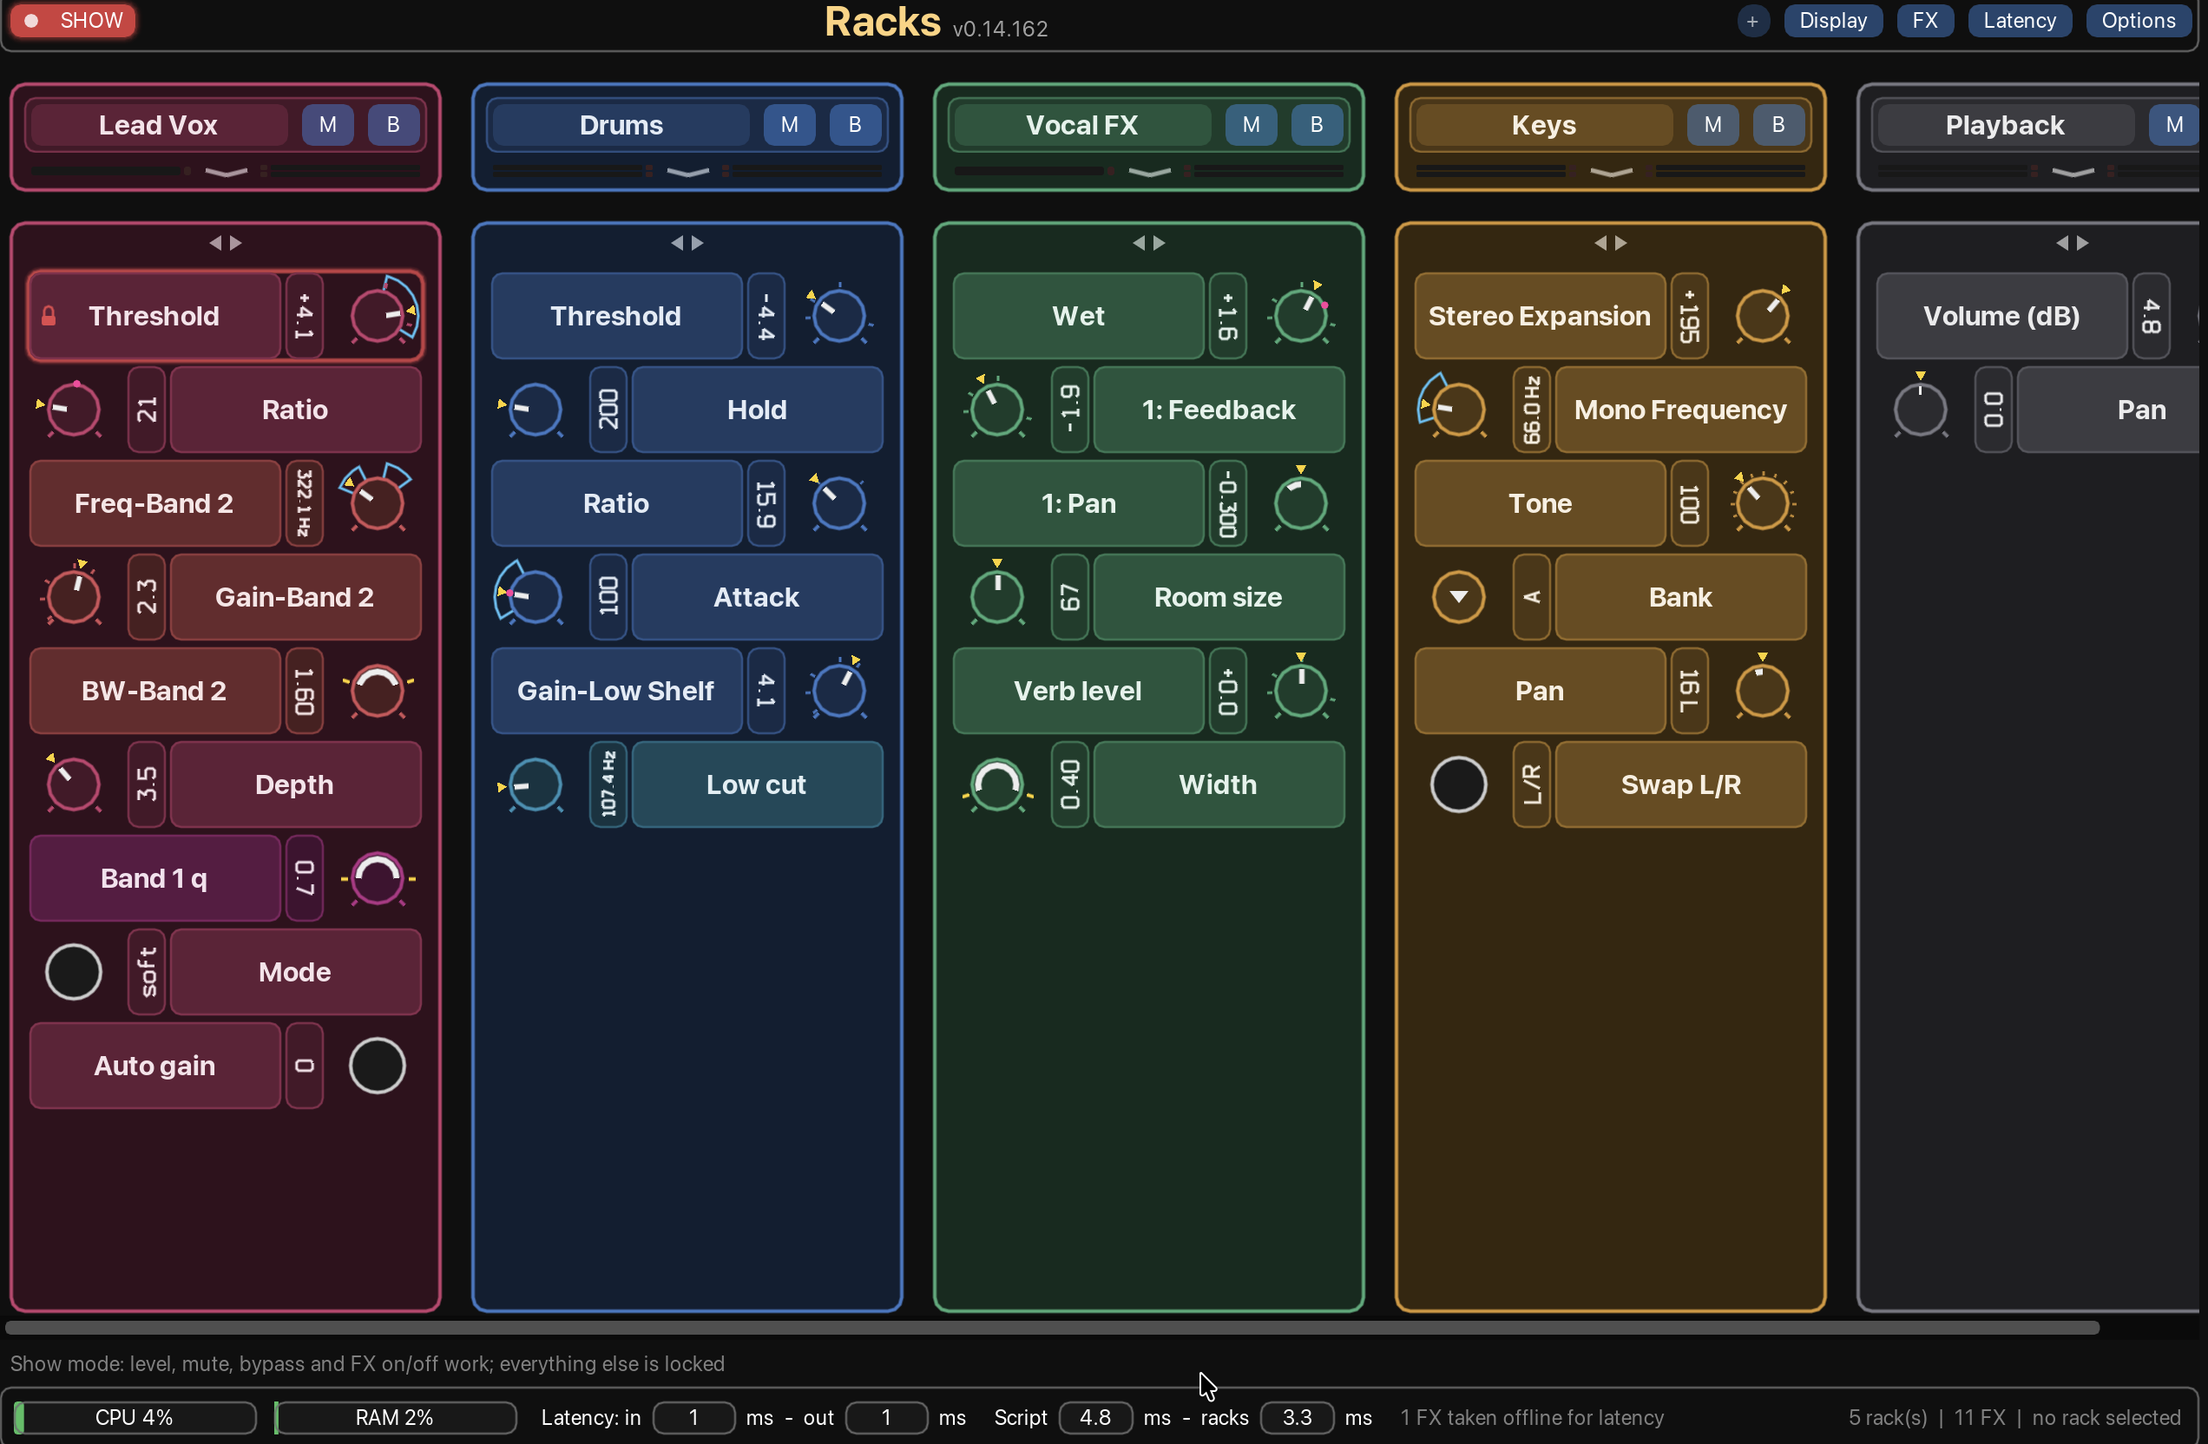
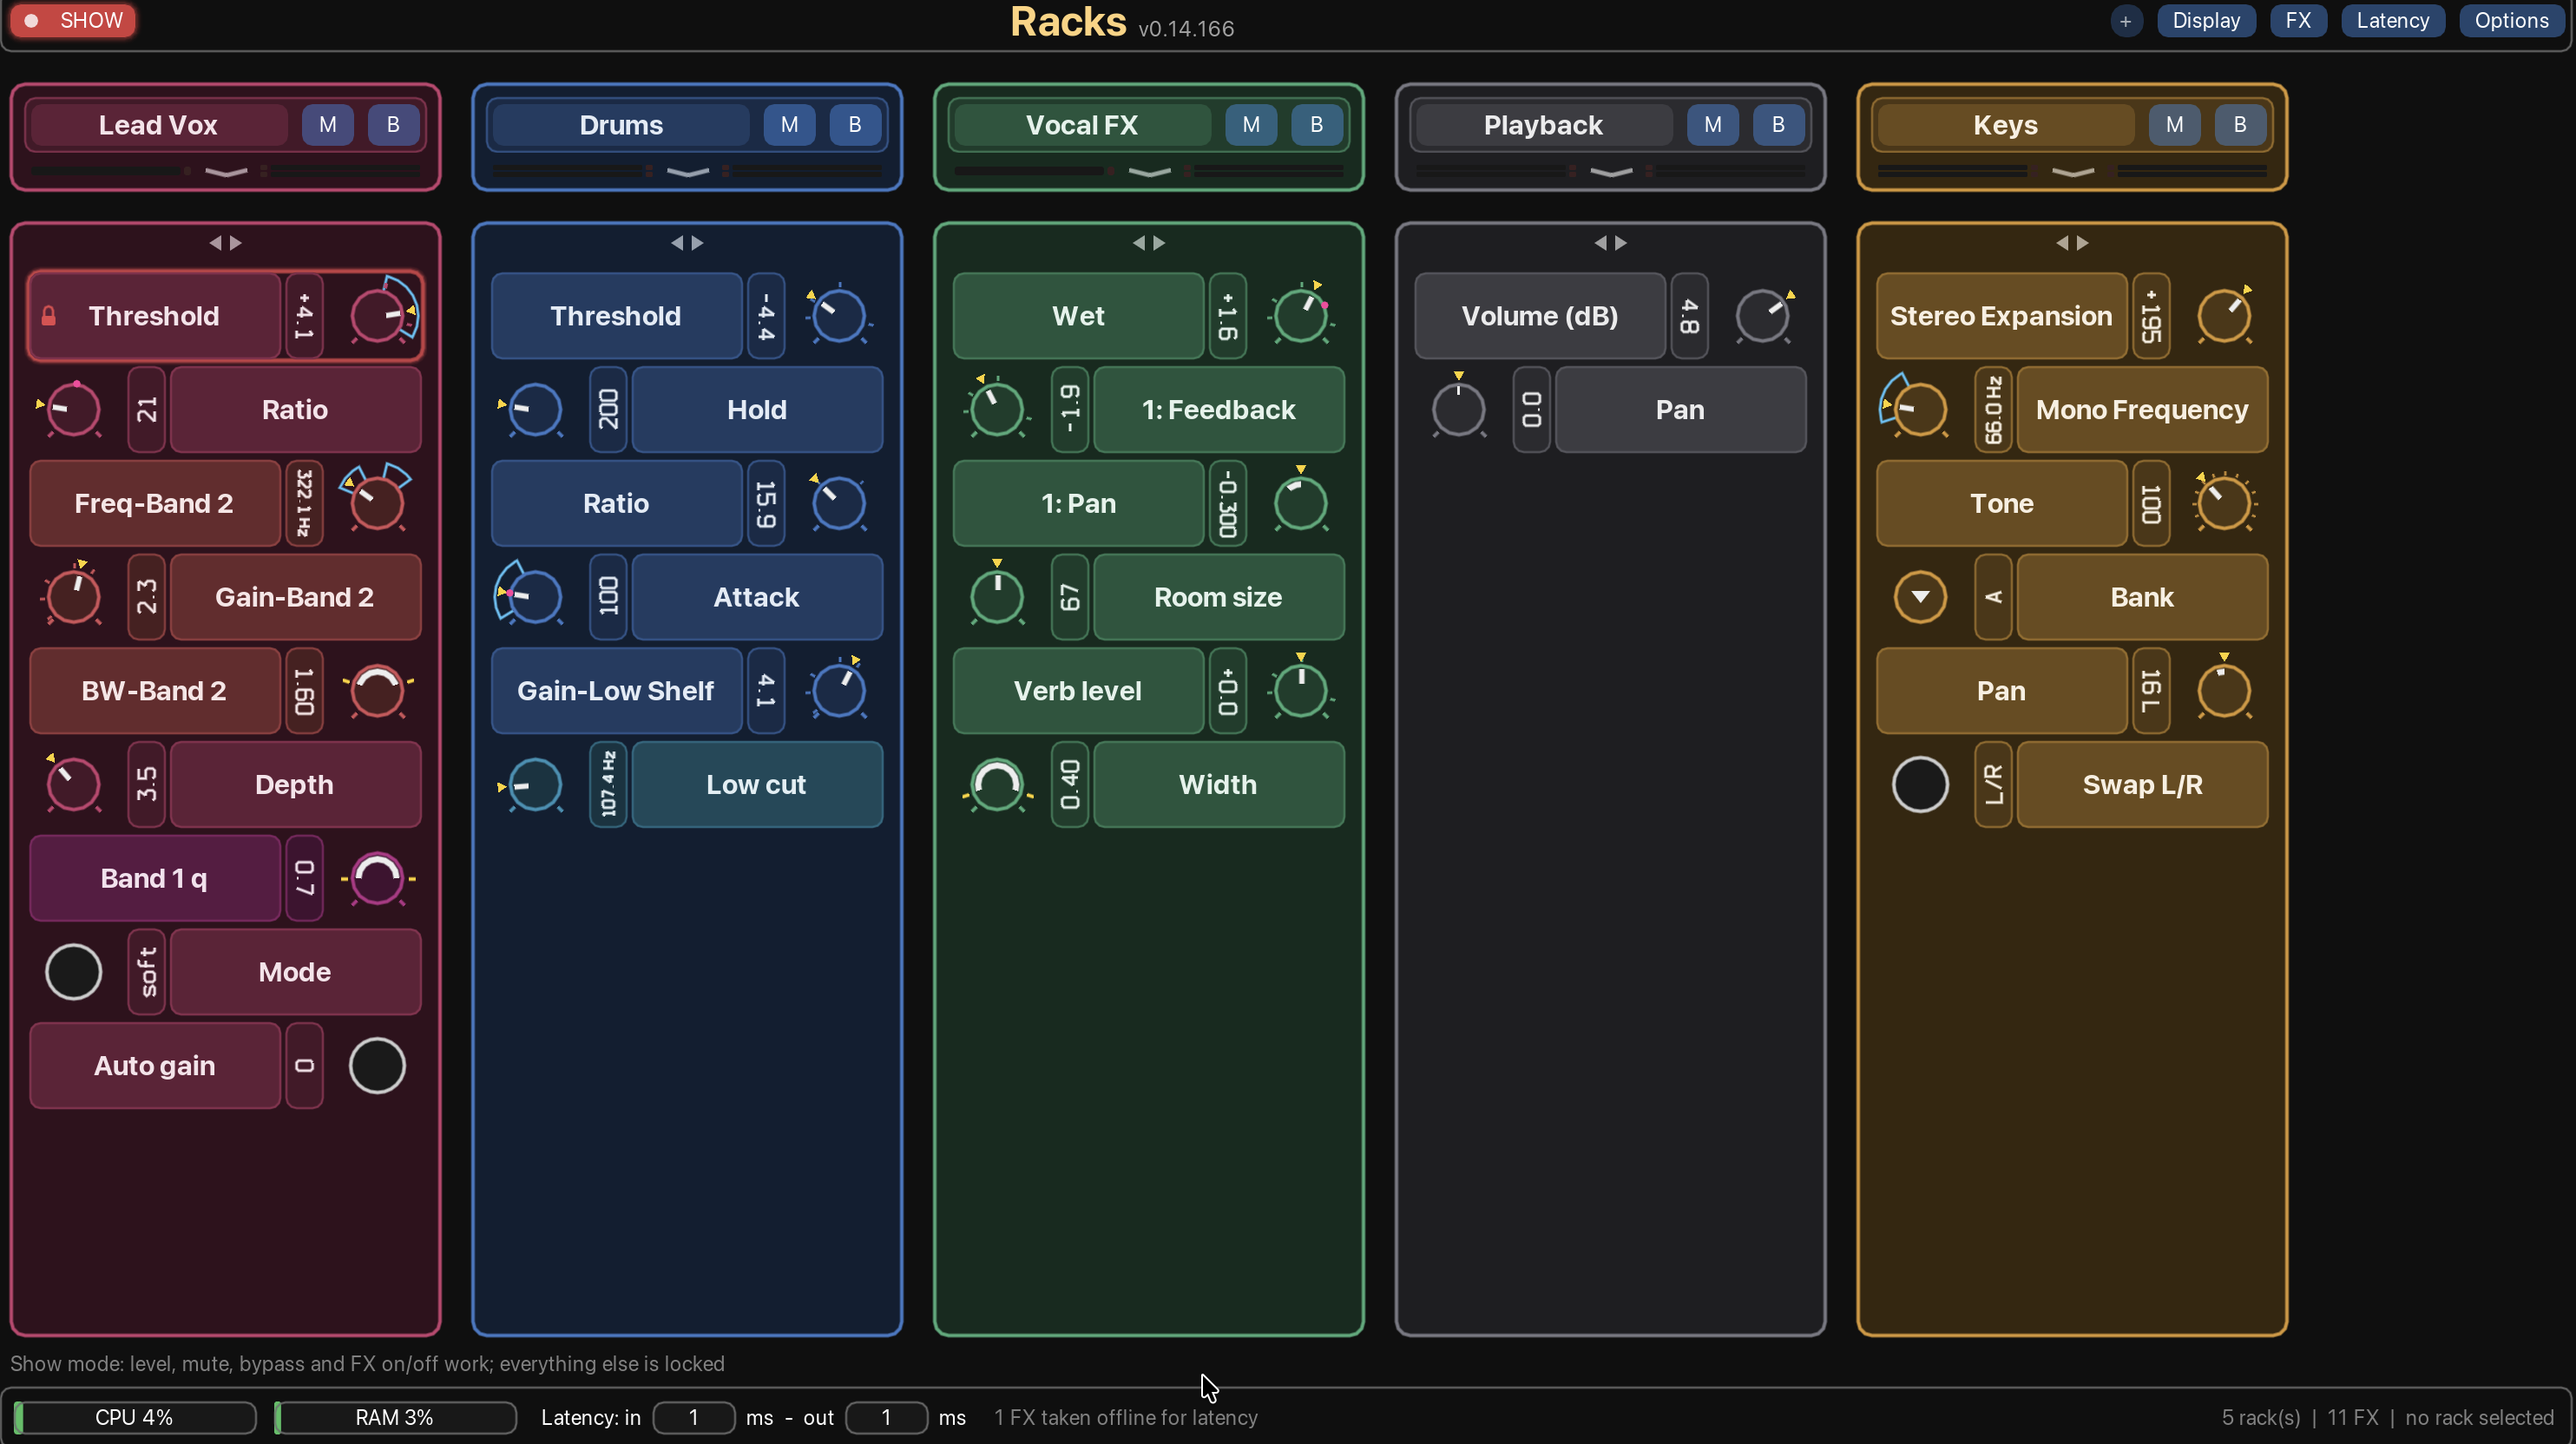
Docs: screenshots without the debug timer

diff --git a/docs/TESTING.md b/docs/TESTING.md
@@ -2,7 +2,7 @@
 
 Open items to check in REAPER, newest version first. Report by number (e.g. "3 ok, 7 fails: ...").
 Done items are kept at the bottom, with what was found.
-New items get the next free number (next: 209).
+New items get the next free number (next: 210).
 
 ## Open
 
@@ -19,6 +19,7 @@ New items get the next free number (next: 209).
 
 ## Done
 
+- [x] 209. (0.14.166) The debug timer ("Script … ms - racks … ms") is gone from the status bar; FOH-Mate starts without an error. Found (Claude, automated in REAPER): restarted 0.14.166, no timer, Performance mode, Show mode and the normal view draw as before.
 - [x] 208. (0.14.162) Parameters window, Refresh: in ReaEQ change a band's type so its parameters get other names; press Refresh next to the search box: the tree shows the new names and they can be added. Without Refresh: clicking a parameter's row in a rack, Inspect FX... or right-clicking the rack's name also brings the tree up to date. Found (Bianca): ok (C66).
 - [x] 207. (0.14.161) Code move (param_tree.lua), nothing should change in the Parameters window: search, Show hidden, folding racks / FX / groups, Shift+right-click a rack's name, clicking, Cmd/Ctrl-click and Shift-click to select, the tick boxes of a parameter / group / FX (and their counts "3 of 12 in the quick access panel"), Add / Remove buttons, right-click a parameter (Hide, Copy / Paste limits and curve), right-click an FX (Color...), Inspect FX from a rack, a parameter clicked in a rack selected in the tree, names in their colors. Found (Bianca): everything works (C65). An FX that renames its parameters (ReaEQ, a band changing type) is not followed by the tree: Refresh added in 208.
 - [x] 206. (0.14.160) Range selector, alignment: each round handle is centered on its line; Min's and Max's value lines sit at the very ends of the blue part, not past them; the arrows' tips touch the value lines; the bar's edges look crisp. Found (Bianca): handles, lines and the blue part line up (C59).
